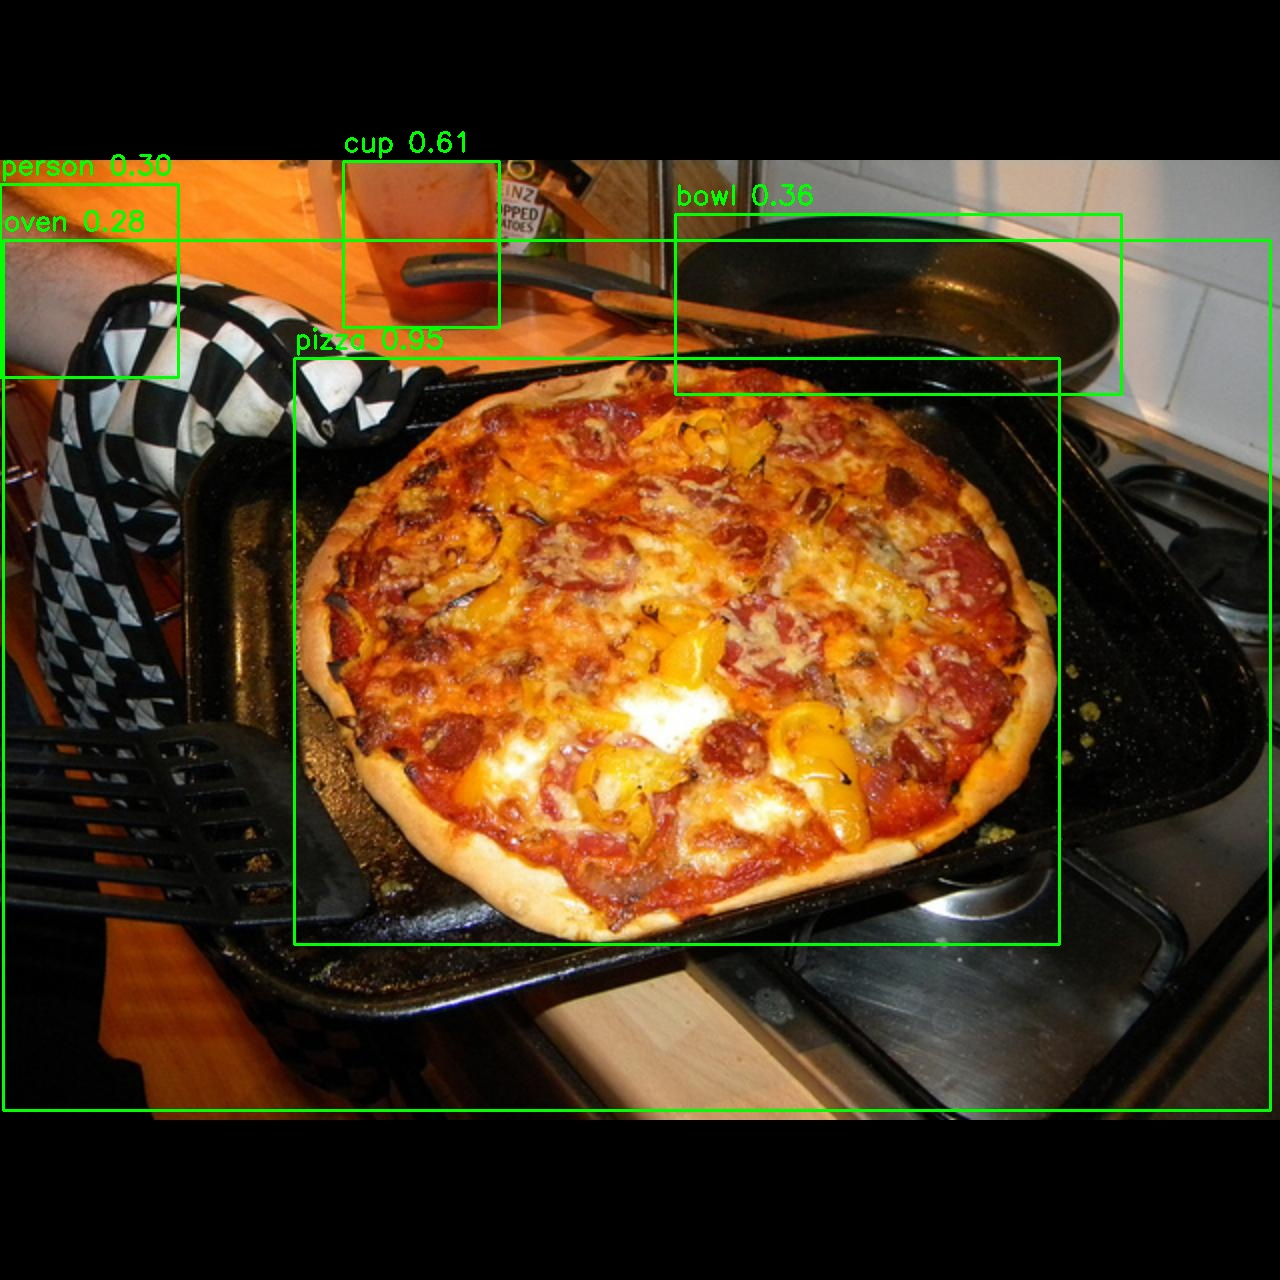
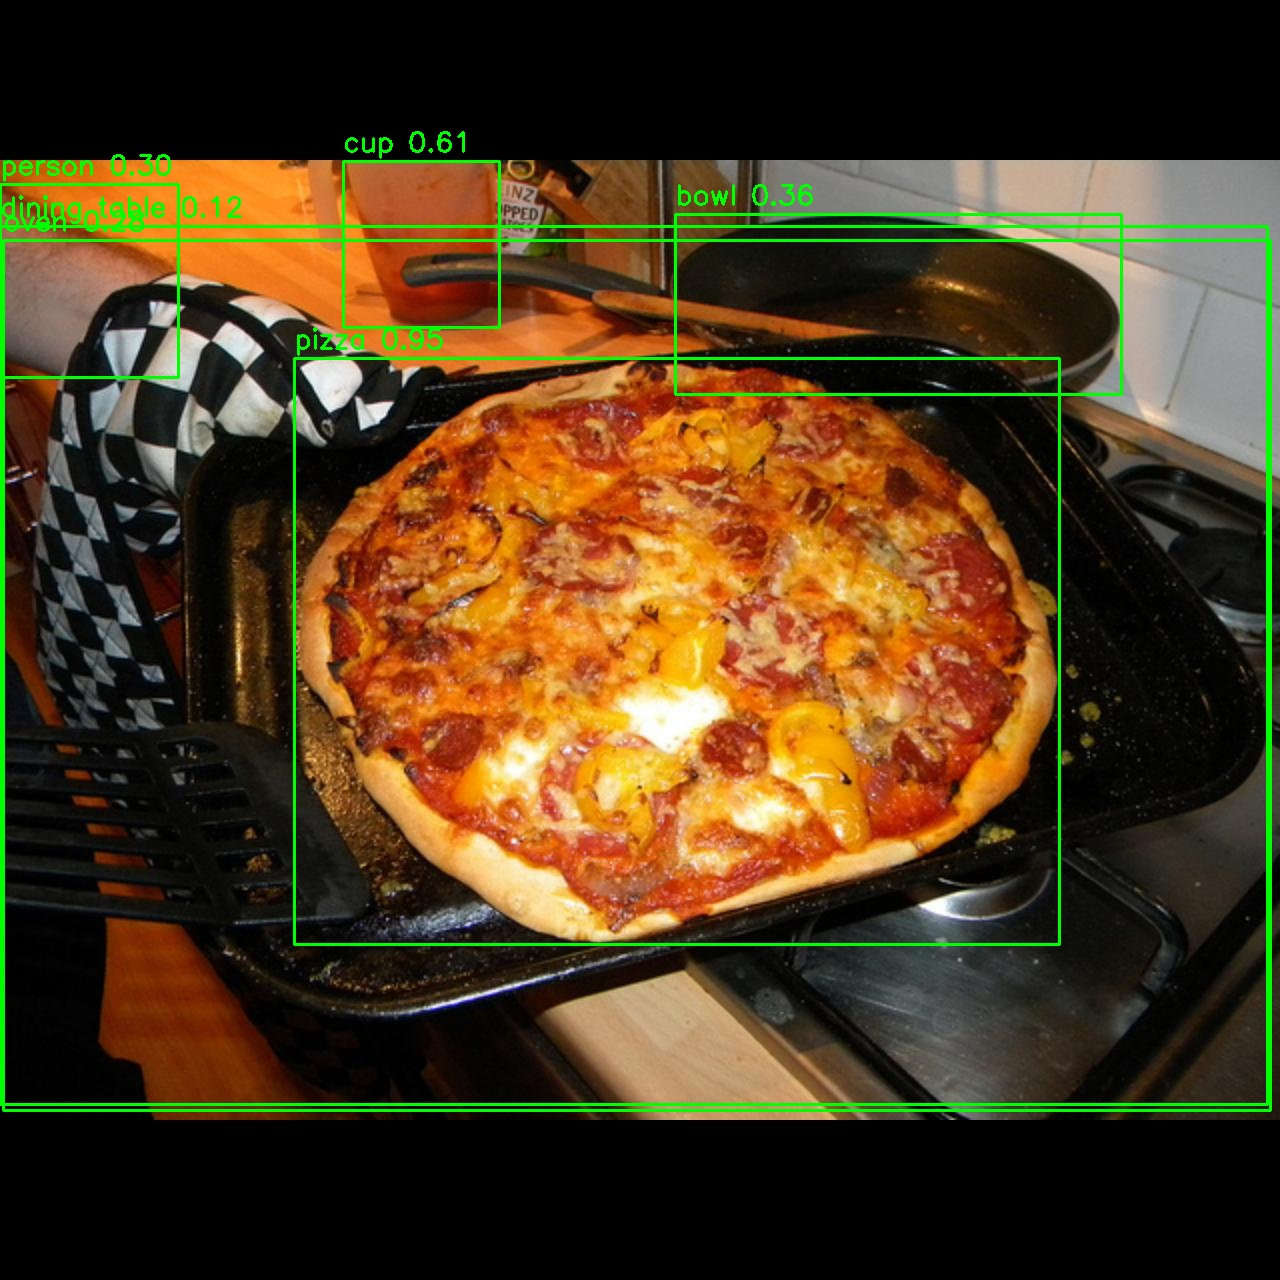
updated UI design

Changed region(s): [[0.0, 0.1562, 1.0, 0.875]]

diff --git a/templates/index.html b/templates/index.html
@@ -225,7 +225,7 @@
         <div style="margin-bottom:15px;">
     <span style="margin-right:30px;">
         <i class="fas fa-envelope"></i> Email: 
-        <a href="mailto:sionychaudhari@gmail.com" style="color:#32dde6; text-decoration:none;">sionychaudhari@gmail.com</a>
+        <a href="mailto:sionychaudhari2006@gmail.com" style="color:#32dde6; text-decoration:none;">sionychaudhari2006@gmail.com</a>
     </span>
     <span>
         <i class="fas fa-phone phone-icon"></i> Phone: 
@@ -253,58 +253,68 @@
 
     </footer>
 
-   <script>
+<script>
 const navLinks = document.querySelectorAll('nav ul li a');
-const navbarHeight = 80; // same as your navbar height
+const sections = document.querySelectorAll('section');
+const navbarHeight = 80;
+
+let clickedLink = null; // Track the clicked link
 
 function setActiveLink() {
-  const scrollPos = window.scrollY + navbarHeight + 10; // offset for sticky navbar
+  if (clickedLink) return; // Keep the clicked link highlighted
 
-  navLinks.forEach(link => {
-  link.addEventListener('click', e => {
-    const href = link.getAttribute('href');
+  let scrollPos = window.scrollY + navbarHeight + 50;
 
-    if (href.startsWith("#")) {
-      // Internal page scroll
-      e.preventDefault();
-      const target = document.querySelector(href);
-      if (!target) return;
-      const targetPos = target.offsetTop - navbarHeight;
-      window.scrollTo({ top: targetPos, behavior: 'smooth' });
+  sections.forEach(section => {
+    const id = section.getAttribute('id');
+    if (!id) return;
+    const link = document.querySelector(`nav ul li a[href="#${id}"]`);
+    if (!link) return;
+
+    const sectionTop = section.offsetTop;
+    const sectionBottom = sectionTop + section.offsetHeight - 120;
+
+    if (scrollPos >= sectionTop && scrollPos < sectionBottom) {
+      navLinks.forEach(l => l.classList.remove('active'));
+      link.classList.add('active');
     }
-    // External links or Flask routes (/contact) will navigate normally
   });
-});
 
-
-
-  // Special case: if scrolled to bottom, make Contact active
-  if (window.innerHeight + window.scrollY >= document.body.scrollHeight) {
+  // Remove highlight only if at the absolute bottom of page
+  if (window.innerHeight + window.scrollY >= document.body.scrollHeight - 5) {
     navLinks.forEach(l => l.classList.remove('active'));
-    const contactLink = document.querySelector('nav ul li a[href="#contact-section"]');
-    if (contactLink) contactLink.classList.add('active');
   }
 }
 
-// Smooth scroll with offset
+// Smooth scroll with offset and click highlight
 navLinks.forEach(link => {
   link.addEventListener('click', e => {
-    e.preventDefault();
+    const href = link.getAttribute('href');
+    if (!href.startsWith('#')) return;
 
-    const target = document.querySelector(link.getAttribute('href'));
+    e.preventDefault();
+    const target = document.querySelector(href);
     if (!target) return;
 
-    const targetPos = target.offsetTop - navbarHeight; // subtract navbar height
-    window.scrollTo({
-      top: targetPos,
-      behavior: 'smooth'
-    });
+    const targetPos = target.offsetTop - navbarHeight + 5;
+    window.scrollTo({ top: targetPos, behavior: 'smooth' });
+
+    // Remove active from all links and highlight clicked one
+    navLinks.forEach(l => l.classList.remove('active'));
+    link.classList.add('active');
+    clickedLink = link; // Keep clicked link highlighted
   });
 });
 
-window.addEventListener('scroll', setActiveLink);
+// Optional: reset clickedLink after scrolling
+window.addEventListener('scroll', () => {
+  setActiveLink();
+});
+
 window.addEventListener('load', setActiveLink);
 </script>
+
+
 
 
 

diff --git a/static/style.css b/static/style.css
@@ -769,6 +769,102 @@ footer {
     display: block;
 }
 
+/* Wrapper to handle custom arrow */
+.select-wrapper {
+  position: relative;
+  width: 100%;
+}
+
+/* Dropdown styling */
+/* Force consistent style for Subject dropdown */
+.select-wrapper select {
+  font-family: 'Roboto', sans-serif !important;
+  font-size: 16px !important;
+  font-weight: 400 !important; /* make text normal */
+  color: #999 !important;      /* same light gray as placeholders */
+  background-color: #fff !important;
+  border: 1px solid #ddd !important;
+  border-radius: 8px !important;
+  padding: 16px 12px !important;
+  box-shadow: inset 0 1px 3px rgba(0, 0, 0, 0.05);
+  appearance: none;
+  -webkit-appearance: none;
+  -moz-appearance: none;
+}
+
+/* Make the first option (placeholder “Subject *”) appear gray */
+.select-wrapper select option[disabled][selected] {
+  color: #999 !important;
+}
+
+/* When a real option is selected, make it black */
+.select-wrapper select:valid {
+  color: #333 !important;
+}
+
+/* Custom arrow styling */
+.select-wrapper::after {
+  font-family: 'Roboto', sans-serif !important;
+  font-weight: 400 !important; /* make text normal */
+  color: #999 !important;  
+  content: '›';
+  position: absolute;
+  right: 15px;
+  top: 38%;
+  transform: translateY(-50%);
+  pointer-events: none;
+  font-size: 1.5rem;
+  color: #555;
+}
+
+/* Optional: keep all form inputs consistent */
+form input[type="text"],
+form input[type="email"],
+form textarea {
+  width: 100%;
+  padding: 12px;
+  border: 1px solid #ccc;
+  border-radius: 6px;
+  font-size: 1rem;
+  font-weight: normal;
+  box-sizing: border-box;
+  margin-bottom: 15px;
+}
+
+
+/* Keep spacing consistent */
+form input,
+form select,
+form textarea {
+  margin-bottom: 15px;
+}
+
+/* ===== UNIFY FONT STYLE FOR ALL FORM FIELDS ===== */
+.contact-form-column input,
+.contact-form-column select,
+.contact-form-column textarea {
+  font-family: 'Roboto', sans-serif; /* ensure uniform font */
+  font-size: 16px;
+  font-weight: 400; /* normal, not bold */
+  color: #333;
+}
+
+/* Specifically ensure Subject dropdown text is not bold */
+.select-wrapper select {
+  font-weight: 400 !important;
+  font-family: 'Roboto', sans-serif;
+  font-size: 16px;
+  color: #333;
+}
+
+/* Optional – unify placeholder text look */
+::placeholder {
+  color: #999;
+  font-weight: 400;
+  font-family: 'Roboto', sans-serif;
+}
+
+
 
 /* ===== RESPONSIVE ===== */
 @media (max-width: 768px) {

diff --git a/templates/contact.html b/templates/contact.html
@@ -38,12 +38,15 @@
         <!-- END: Fields wrapped in form-grid -->
 
         <input type="text" id="companyName" name="companyName" placeholder="Company name">
-        <select id="subject" name="subject" required>
-          <option value="" disabled selected>Subject *</option>
-          <option value="general">General inquiry</option>
-          <option value="sales">Sales</option>
-          <option value="support">Support</option>
-        </select>
+        <div class="select-wrapper">
+  <select id="subject" name="subject" required>
+    <option value="" disabled selected>Subject *</option>
+    <option value="general">General inquiry</option>
+    <option value="sales">Sales</option>
+    <option value="support">Support</option>
+  </select>
+</div>
+
         <textarea id="message" name="message" placeholder="Your Message *" rows="6" required></textarea>
         <button type="submit" class="send-button">Send</button>
       </form>
@@ -82,7 +85,7 @@
         <div style="margin-bottom:15px;">
     <span style="margin-right:30px;">
         <i class="fas fa-envelope"></i> Email: 
-        <a href="mailto:sionychaudhari@gmail.com" style="color:#32dde6; text-decoration:none;">sionychaudhari@gmail.com</a>
+        <a href="mailto:sionychaudhari2006@gmail.com" style="color:#32dde6; text-decoration:none;">sionychaudhari2006@gmail.com</a>
     </span>
     <span>
         <i class="fas fa-phone phone-icon"></i> Phone: 
